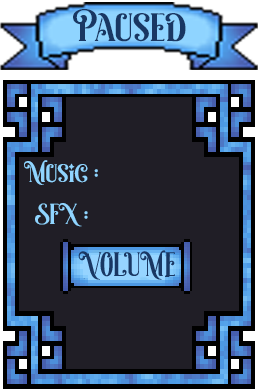
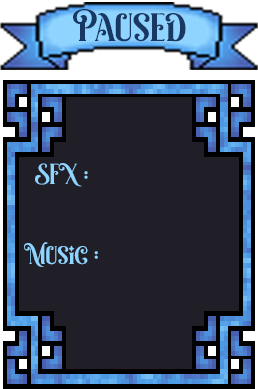
Corrected Pause Overlay button position

Changed region(s): [[0.093, 0.617, 0.7442, 0.7712], [0.093, 0.401, 0.4031, 0.4936], [0.124, 0.5244, 0.3411, 0.5861]]

diff --git a/src/ui/PauseOverlay.java b/src/ui/PauseOverlay.java
@@ -78,7 +78,7 @@ public class PauseOverlay {
         // Had to touch up the overall size so decreased it by 5 in its height
         int sizeOffset = 5;
         int soundX = (int) (400 * SCALE);
-        int musicY = (int) (230 * SCALE);
+        int musicY = (int) (275 * SCALE);
         int sfxY = (int) (186 * SCALE);
         musicButton = new SoundButton(soundX, musicY, SOUNDSIZE, SOUNDSIZE - sizeOffset);
         sfxButton = new SoundButton(soundX, sfxY, SOUNDSIZE, SOUNDSIZE - sizeOffset);
